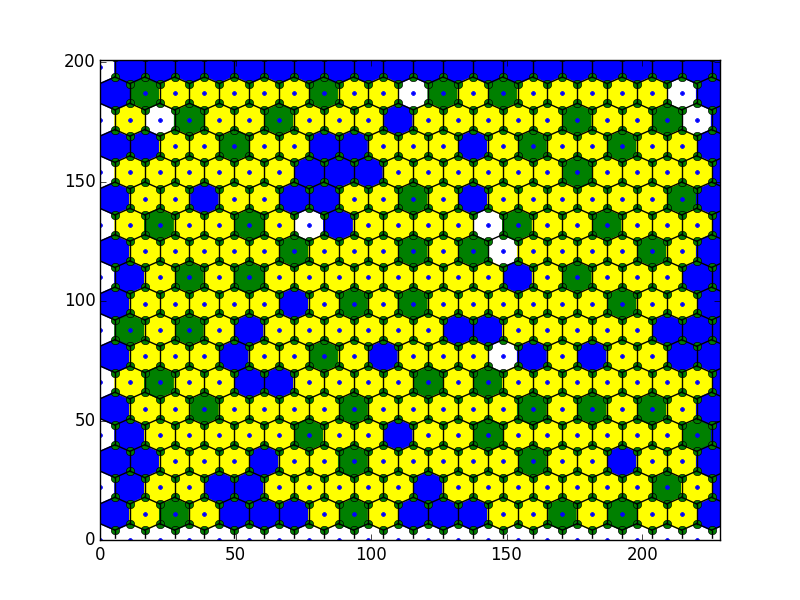
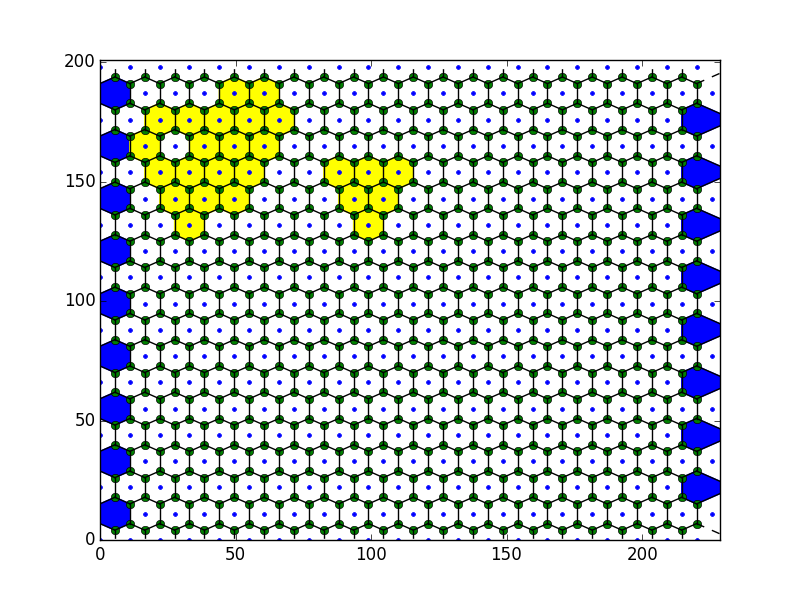
compares ridges instead of points. fixes #2

diff --git a/mapgenerator.py b/mapgenerator.py
@@ -7,8 +7,8 @@ from scipy.spatial import Voronoi, voronoi_plot_2d
 
 def random_numbers():  # generates the input points for the voronoi diagram
     numbers = []
-    for x in range(0, 22):  # first, it fills the area with points in a grid.
-        for y in range(0, 22):
+    for x in range(0, 19):  # first, it fills the area with points in a grid.
+        for y in range(0, 21):
             ysize = x * 11  # + np.random.randint(-6, 6)
             if x % 2 == 0:  # every even row is moved to create hexagon-like points
                 xsize = y * 11  # + np.random.randint(-6, 6)  # points are slightly moved around to create quasi-randomness
@@ -19,11 +19,15 @@ def random_numbers():  # generates the input points for the voronoi diagram
     return numbers
 
 
-def not_in_shared_points(shared_points, coord):
-    for item in shared_points:
-        if item[0] == coord[0] and item[1] == coord[1]:
-            return False
-    return True
+def to_lines(polygon):
+    lines = []
+    points = len(polygon)
+    for i in range(points):
+        try:
+            lines.append([polygon[i], polygon[i + 1]])
+        except IndexError:
+            lines.append([polygon[i], polygon[0]])
+    return lines
 
 
 class VoronoiPlot:
@@ -37,41 +41,42 @@ class VoronoiPlot:
         voronoi_plot_2d(self.vor)
 
     def adjacent_tiles(self, polygon, regen=0):
-        shared_points = []
-        shared_points_sea = 0
-        shared_points_land = 0
-        shared_points_beach = 0
+        shared_lines = []
+        shared_lines_sea = 0
+        shared_lines_land = 0
+        shared_lines_beach = 0
+        lines_polygon = to_lines(polygon)
         for tile in self.index:
-            for i in tile[0]:
-                for j in polygon:
-                    if i[0] == j[0] and i[1] == j[1] and not_in_shared_points(shared_points,
-                                                                              i):  # coordinates are the same
-                        shared_points.append(i)
+            for i in tile[2]:
+                for j in lines_polygon:
+                    if np.array_equal(i, j):  # coordinates are the same
+                        shared_lines.append(i)
                         if tile[1] == 'sea' or tile[1] == 'border':
-                            shared_points_sea += 1
+                            shared_lines_sea += 1
                         elif tile[1] == 'land':
-                            shared_points_land += 1
+                            shared_lines_land += 1
                         elif tile[1] == 'beach':
-                            shared_points_beach += 1
-        print(
-                u"shared with: land {0:d} | sea: {1:d} | beach: {2:d}".format(
-                        shared_points_land,
-                        shared_points_sea,
-                        shared_points_beach))
-
-        if shared_points_sea == 6 or (shared_points_beach == 0 and shared_points_land == 0):
-            if not regen and np.random.randint(0, 2):
-                print('is beach')
+                            shared_lines_beach += 1
+        if regen:
+            print(u"shared with: land {0:d} | sea: {1:d} | beach: {2:d}".format(
+                    shared_lines_land,
+                    shared_lines_sea,
+                    shared_lines_beach))
+        if regen:
+            if (shared_lines_land + shared_lines_beach == 6) and shared_lines_sea == 0:
+                print("is land")
+                return 'land'
+            if shared_lines_beach >= 1:
+                print("is beach")
+                return 'beach'
+        else:
+            if np.random.randint(100) == 1 and self.beach < 3:
+                self.beach += 1
+                print("is beach")
                 return 'beach'
             else:
-                print('is sea')
+                print("is sea")
                 return 'sea'
-        if (shared_points_land == 6 or shared_points_beach == 6) and shared_points_sea == 0:
-            print('is land')
-            return 'land'
-        if shared_points_beach >= 1:
-            print('is beach')
-            return 'beach'
 
 
     @staticmethod
@@ -87,9 +92,9 @@ class VoronoiPlot:
                 polygon = [self.vor.vertices[i] for i in region]
                 if not self.is_border(polygon):
                     area_type = self.adjacent_tiles(polygon)
-                    self.index.append([polygon, area_type])
+                    self.index.append([polygon, area_type, to_lines(polygon)])
                 else:
-                    self.index.append([polygon, 'border'])
+                    self.index.append([polygon, 'border', to_lines(polygon)])
         self.__regenerate()
         self.__color()
 
@@ -140,6 +145,5 @@ class VoronoiPlot:
 if __name__ == '__main__':
     plot = VoronoiPlot(1337)
     plot.generate()
-    plt.axis([0, 228.624, 0, 201])  # size is weird because it will be filled up by hexagons
-    print(plot.beach)
+    plt.axis([0, 228.624, 0, 201])  # size is weird because it will be filled up by
     plt.show()
